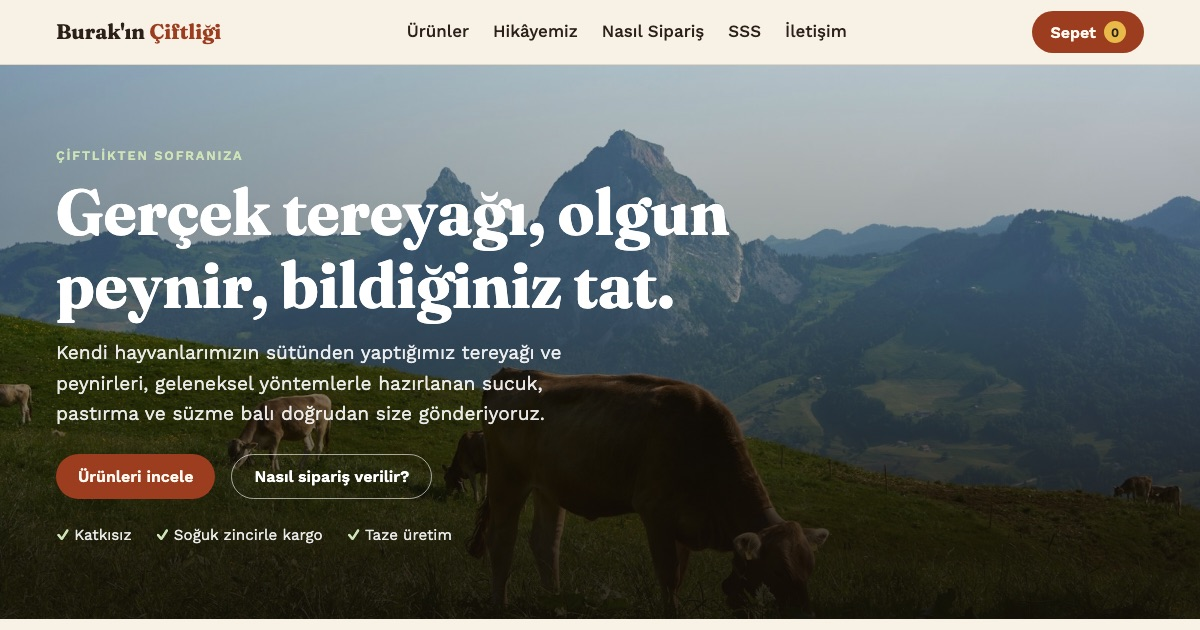
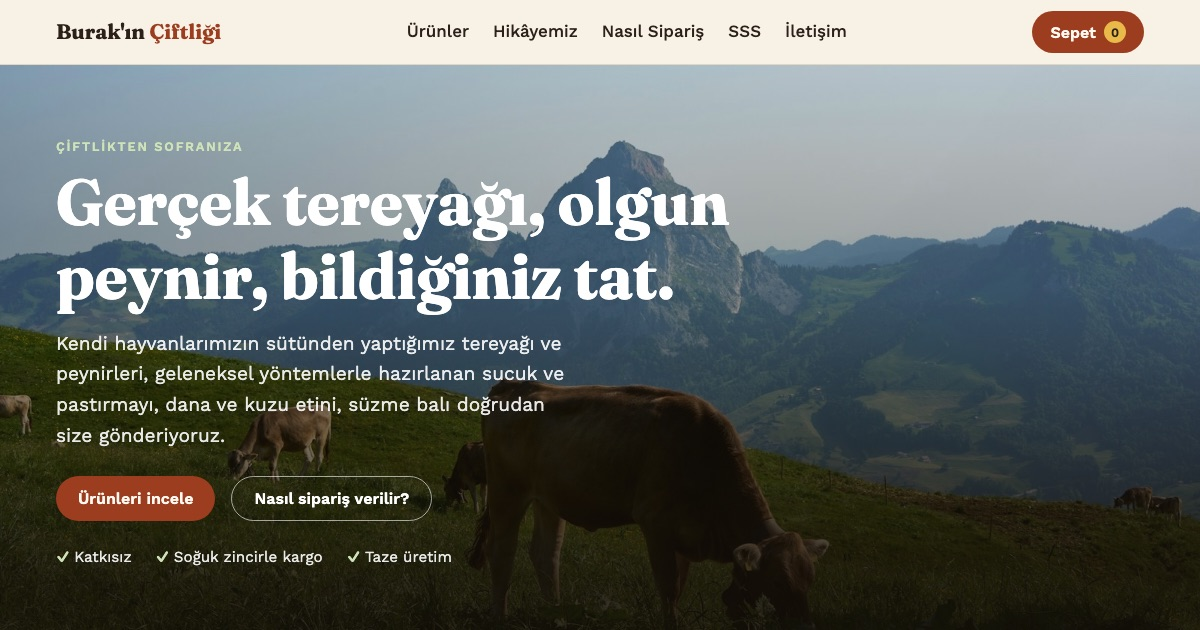
Et kategorisi, bölge teslimat notları ve yeni ürün fotoğrafları

diff --git a/index.html b/index.html
@@ -9,7 +9,7 @@
 <meta property="og:type" content="website">
 <meta property="og:site_name" content="Burak'ın Çiftliği">
 <meta property="og:title" content="Burak'ın Çiftliği">
-<meta property="og:description" content="Köy tereyağı, peynir çeşitleri, sucuk, pastırma ve bal. Çiftlikten sofranıza.">
+<meta property="og:description" content="Köy tereyağı, peynir çeşitleri, sucuk, pastırma, dana ve kuzu eti, bal. Çiftlikten sofranıza.">
 <meta property="og:url" content="https://4r4s-h.github.io/burakin-ciftligi/">
 <meta property="og:image" content="https://4r4s-h.github.io/burakin-ciftligi/img/onizleme.jpg">
 <meta property="og:image:width" content="1200">
@@ -115,9 +115,11 @@ header{position:sticky; top:0; z-index:20; background:color-mix(in srgb, var(--b
 .hero-farm .badges span::before{color:#cfe3b8}
 .btn.ghost.light{color:#fff; border-color:rgba(255,255,255,.6)}
 .cats{padding:var(--s5) 0 0}
-.cat-grid{display:grid; grid-template-columns:repeat(4, 1fr); gap:var(--s3)}
+.cat-grid{display:grid; grid-template-columns:repeat(5, 1fr); gap:var(--s3)}
 .cat-grid .tile{min-height:200px}
-@media (max-width:860px){.cat-grid{grid-template-columns:1fr 1fr} .cat-grid .tile{min-height:150px}}
+@media (max-width:860px){.cat-grid{grid-template-columns:1fr 1fr} .cat-grid .tile{min-height:150px} .cat-grid .tile:last-child{grid-column:span 2}}
+.ship-warn{margin:0; font-size:.9rem; background:var(--bg); border:1px solid var(--leaf); color:var(--ink); border-radius:10px; padding:var(--s2) var(--s3)}
+.ship{align-self:flex-start; font-size:.8rem; font-weight:600; color:var(--leaf); border:1px solid currentColor; border-radius:999px; padding:2px 10px}
 
 /* Then & now */
 .then-now{display:grid; grid-template-columns:1fr 1fr; gap:var(--s3); align-items:start}
@@ -130,7 +132,8 @@ header{position:sticky; top:0; z-index:20; background:color-mix(in srgb, var(--b
 .card .body{padding:var(--s3) var(--s3) var(--s4); display:flex; flex-direction:column; gap:var(--s2); flex:1}
 .card h3{margin:0}
 .card p{color:var(--muted); font-size:.95rem; margin:0; flex:1}
-.card .row{display:flex; justify-content:space-between; align-items:center; gap:var(--s2); margin-top:var(--s2)}
+.card .row{display:flex; flex-wrap:wrap; justify-content:space-between; align-items:center; gap:var(--s2); margin-top:var(--s2)}
+.price small, .card .btn{white-space:nowrap}
 .price{font-family:var(--f-display); font-weight:700; font-size:1.3rem}
 .price small{font-family:var(--f-body); font-weight:400; font-size:.85rem; color:var(--muted)}
 .card .btn{padding:9px 16px; font-size:.92rem}
@@ -203,7 +206,7 @@ footer{padding:var(--s5) 0; color:var(--muted); font-size:.9rem; text-align:cent
     <div class="wrap">
       <div class="eyebrow">Çiftlikten sofranıza</div>
       <h1 id="hero-h">Gerçek tereyağı, olgun peynir, bildiğiniz tat.</h1>
-      <p class="lead">Kendi hayvanlarımızın sütünden yaptığımız tereyağı ve peynirleri, geleneksel yöntemlerle hazırlanan sucuk, pastırma ve süzme balı doğrudan size gönderiyoruz.</p>
+      <p class="lead">Kendi hayvanlarımızın sütünden yaptığımız tereyağı ve peynirleri, geleneksel yöntemlerle hazırlanan sucuk ve pastırmayı, dana ve kuzu etini, süzme balı doğrudan size gönderiyoruz.</p>
       <div class="hero-actions">
         <a class="btn" href="#urunler">Ürünleri incele</a>
         <a class="btn ghost light" href="#siparis">Nasıl sipariş verilir?</a>
@@ -217,6 +220,7 @@ footer{padding:var(--s5) 0; color:var(--muted); font-size:.9rem; text-align:cent
       <a class="tile" href="#urunler" data-go="tereyagi"><img src="img/tereyagi.jpg" alt="Tabakta taze tereyağı ve köy ekmeği"><span>Tereyağı<small>Yayıkta çalkalanmış</small></span></a>
       <a class="tile" href="#urunler" data-go="peynir"><img src="img/kahvalti.jpg" alt="Beyaz peynir, kaşar, zeytin ve domatesle kahvaltı tabağı"><span>Peynir<small>Olgunlaştırılmış</small></span></a>
       <a class="tile" href="#urunler" data-go="sarkuteri"><img src="img/sarkuteri.jpg" alt="Kurumaya asılmış sucuk ve et ürünleri"><span>Şarküteri<small>Sucuk ve pastırma</small></span></a>
+      <a class="tile" href="#urunler" data-go="et"><img src="img/antrikot.jpg" alt="Ahşap tahtada çiğ dana antrikot"><span>Et<small>Dana ve kuzu</small></span></a>
       <a class="tile" href="#urunler" data-go="bal"><img src="img/bal.jpg" alt="Çiçekler arasında bir kavanoz bal"><span>Bal<small>Süzme ve petek</small></span></a>
     </div>
   </section>
@@ -233,11 +237,12 @@ footer{padding:var(--s5) 0; color:var(--muted); font-size:.9rem; text-align:cent
           <button type="button" data-cat="tereyagi" aria-pressed="false">Tereyağı</button>
           <button type="button" data-cat="peynir" aria-pressed="false">Peynir</button>
           <button type="button" data-cat="sarkuteri" aria-pressed="false">Şarküteri</button>
+          <button type="button" data-cat="et" aria-pressed="false">Et</button>
           <button type="button" data-cat="bal" aria-pressed="false">Bal</button>
         </div>
       </div>
       <div class="grid" id="product-grid"></div>
-      <p class="note">Fiyatlara KDV dahildir. Stok durumu mevsime göre değişebilir; siparişinizi onaylarken size bilgi veririz.</p>
+      <p class="note">Et ürünleri kilogramla satılır; sepette her adet 1 kg'dır. Taze et soğuk zincir gerektirdiği için yalnızca Erzurum içine teslim edilir. Fiyatlara KDV dahildir. Stok durumu mevsime göre değişebilir; siparişinizi onaylarken size bilgi veririz.</p>
     </div>
   </section>
 
@@ -281,6 +286,7 @@ footer{padding:var(--s5) 0; color:var(--muted); font-size:.9rem; text-align:cent
       <div>
         <details><summary>Kargo ne kadar sürer?</summary><p>Siparişler genellikle 1–2 iş günü içinde kargoya verilir ve çoğu ile 1–3 iş gününde ulaşır.</p></details>
         <details><summary>Ürünler bozulmadan gelir mi?</summary><p>Tereyağı, peynir ve şarküteri ürünlerini buz aküleriyle, yalıtımlı kutularda gönderiyoruz.</p></details>
+        <details><summary>Et ürünlerini her yere gönderiyor musunuz?</summary><p>Hayır. Taze et soğuk zincir gerektirdiği için dana ve kuzu etini yalnızca Erzurum içine, kendi soğutmalı aracımızla teslim ediyoruz. Tereyağı, peynir, şarküteri ve bal ürünlerini Türkiye'nin her yerine kargoluyoruz.</p></details>
         <details><summary>Ödemeyi nasıl yapıyorum?</summary><p>Siparişinizi onayladıktan sonra havale/EFT ile ödeme yapabilirsiniz. Diğer seçenekleri WhatsApp'tan sorabilirsiniz.</p></details>
         <details><summary>Ücretsiz kargo var mı?</summary><p>Belirli bir tutarın üzerindeki siparişlerde kargo ücretsizdir. Güncel limiti sipariş sırasında iletiyoruz.</p></details>
       </div>
@@ -305,7 +311,7 @@ footer{padding:var(--s5) 0; color:var(--muted); font-size:.9rem; text-align:cent
 
 <footer>
   <div class="wrap">© <span id="year"></span> Burak'ın Çiftliği. Tüm hakları saklıdır.
-    <p class="credits">Fotoğraflar: Marine Le Gac, Victoria Morgan, Lee Vue, Edi Libedinsky, Anita Austvika, Cristina Marin, Wolfgang Hasselmann, Konrad Nowacki, Katrin Leinfellner / <a href="https://unsplash.com">Unsplash</a>; Tugay Aydın / <a href="https://www.pexels.com">Pexels</a></p>
+    <p class="credits">Fotoğraflar: Marine Le Gac, Victoria Morgan, Lee Vue, Edi Libedinsky, Anita Austvika, Cristina Marin, Wolfgang Hasselmann, Konrad Nowacki, Katrin Leinfellner, Cindie Hansen ve diğer fotoğrafçılar / <a href="https://unsplash.com">Unsplash</a>; Tugay Aydın ve diğer fotoğrafçılar / <a href="https://www.pexels.com">Pexels</a></p>
   </div>
 </footer>
 
@@ -318,6 +324,7 @@ footer{padding:var(--s5) 0; color:var(--muted); font-size:.9rem; text-align:cent
     </div>
     <div class="drawer-items" id="cart-items"></div>
     <div class="drawer-foot">
+      <p class="ship-warn" id="ship-warn" hidden>Sepetinizde taze et var: et ürünleri yalnızca <strong>Erzurum içine</strong> teslim edilir.</p>
       <div class="total"><span>Toplam</span><span id="cart-total">0 ₺</span></div>
       <label for="cart-note">Not (isteğe bağlı)
         <textarea id="cart-note" placeholder="Örn. teslimat günü tercihi"></textarea>
@@ -340,15 +347,20 @@ footer{padding:var(--s5) 0; color:var(--muted); font-size:.9rem; text-align:cent
     {id:'peynir-beyaz',  cat:'peynir',    name:'Tam Yağlı Beyaz Peynir',unit:'1 kg', price:520, desc:'Salamurada en az altı ay dinlendirilmiş.', img:'kahvalti.jpg', alt:'Kahvaltı tabağında beyaz peynir'},
     {id:'peynir-kasar',  cat:'peynir',    name:'Eski Kaşar',          unit:'500 g', price:390, desc:'Bir yıl olgunlaşmış, keskin ve aromatik.', img:'peynir.jpg', alt:'Ahşap tahtada kaşar ve peynir dilimleri'},
     {id:'peynir-tulum',  cat:'peynir',    name:'Tulum Peyniri',       unit:'500 g', price:360, desc:'Ufalanan dokusu ve yoğun tadıyla kahvaltıların yıldızı.', img:'kahvalti.jpg', alt:'Kahvaltı tabağında peynir çeşitleri'},
-    {id:'peynir-orgu',   cat:'peynir',    name:'Örgü Peyniri',        unit:'500 g', price:280, desc:'El ile örülmüş, çörekotlu.', img:'peynir.jpg', alt:'Ahşap tahtada peynir çeşitleri'},
+    {id:'peynir-orgu',   cat:'peynir',    name:'Örgü Peyniri',        unit:'500 g', price:280, desc:'El ile örülmüş, çörekotlu.', img:'orgu.jpg', alt:'Ahşap tahtada beyaz örgü peyniri'},
     {id:'sucuk-kasap',   cat:'sarkuteri', name:'Kasap Sucuk',         unit:'500 g', price:450, desc:'Dana etinden, bol baharatlı, doğal bağırsakta kurutulmuş.', img:'sucuk.jpg', alt:'Ahşap tahtada at nalı sucuk ve sucuk dilimleri'},
     {id:'pastirma',      cat:'sarkuteri', name:'Pastırma',            unit:'250 g', price:520, desc:'Çemeni bol, ince dilimlenmiş dana pastırma.', img:'sarkuteri.jpg', alt:'Kurumaya asılmış et ürünleri'},
     {id:'kavurma',       cat:'sarkuteri', name:'Kavurma',             unit:'500 g', price:600, desc:'Kendi yağında pişirilmiş, vakumlu paketlenmiş.', img:'sarkuteri.jpg', alt:'Şarküteri ürünleri'},
+    {id:'dana-antrikot', cat:'et',        name:'Dana Antrikot',       unit:'1 kg',  price:1100, desc:'Mermer desenli, dinlendirilmiş; ızgara ve tava için.', img:'antrikot.jpg', alt:'Ahşap tahtada çiğ dana antrikot', note:'Yalnızca Erzurum içi teslimat'},
+    {id:'dana-bonfile',  cat:'et',        name:'Dana Bonfile',        unit:'1 kg',  price:1350, desc:'En yumuşak parça; madalyon ya da bütün olarak.', img:'bonfile.jpg', alt:'Tahtada kalın dilim çiğ dana eti', note:'Yalnızca Erzurum içi teslimat'},
+    {id:'dana-kaburga',  cat:'et',        name:'Dana Kaburga',        unit:'1 kg',  price:750, desc:'Kemikli; fırın ve uzun pişirme yemekleri için.', img:'kaburga.jpg', alt:'Tepside kemikli çiğ dana kaburga', note:'Yalnızca Erzurum içi teslimat'},
+    {id:'kuzu-pirzola',  cat:'et',        name:'Kuzu Pirzola',        unit:'1 kg',  price:1200, desc:'Kuzu kafesinden, porsiyonluk kesilmiş.', img:'kuzu.jpg', alt:'Biberiyeli çiğ kuzu pirzola', note:'Yalnızca Erzurum içi teslimat'},
+    {id:'kuzu-kusbasi',  cat:'et',        name:'Kuzu Kuşbaşı',        unit:'1 kg',  price:950, desc:'Kuzu butundan, sinirleri ayıklanmış.', img:'kusbasi.jpg', alt:'Tahtada kuşbaşı doğranmış çiğ et', note:'Yalnızca Erzurum içi teslimat'},
     {id:'bal-cicek',     cat:'bal',       name:'Süzme Çiçek Balı',    unit:'850 g', price:550, desc:'Yayla çiçeklerinden, ısıl işlem görmemiş.', img:'bal.jpg', alt:'Çiçekler arasında süzme bal kavanozu'},
     {id:'bal-kestane',   cat:'bal',       name:'Kestane Balı',        unit:'850 g', price:750, desc:'Koyu renkli, hafif acımsı ve mineral açısından zengin.', img:'bal.jpg', alt:'Kavanozda koyu renkli bal'},
     {id:'bal-petek',     cat:'bal',       name:'Petek Bal',           unit:'1 kg',  price:900, desc:'Çerçeveden kesilmiş, doğal haliyle.', img:'petek.jpg', alt:'Yakın çekim petek bal'}
   ];
-  var CAT_LABEL = {tereyagi:'Tereyağı', peynir:'Peynir', sarkuteri:'Şarküteri', bal:'Bal'};
+  var CAT_LABEL = {tereyagi:'Tereyağı', peynir:'Peynir', sarkuteri:'Şarküteri', et:'Et', bal:'Bal'};
 
   var $ = function(id){ return document.getElementById(id); };
   var fmt = new Intl.NumberFormat('tr-TR');
@@ -366,7 +378,7 @@ footer{padding:var(--s5) 0; color:var(--muted); font-size:.9rem; text-align:cent
   grid.innerHTML = PRODUCTS.map(function(p){
     return '<article class="card" data-cat="'+p.cat+'">' +
       '<div class="photo"><img src="img/'+p.img+'" alt="'+p.alt+'" loading="lazy" width="1000" height="666"><span class="tag">'+CAT_LABEL[p.cat]+'</span></div>' +
-      '<div class="body"><h3>'+p.name+'</h3><p>'+p.desc+'</p>' +
+      '<div class="body"><h3>'+p.name+'</h3><p>'+p.desc+'</p>' + (p.note ? '<span class="ship">'+p.note+'</span>' : '') +
       '<div class="row"><span class="price">'+money(p.price)+' <small>/ '+p.unit+'</small></span>' +
       '<button class="btn" type="button" data-add="'+p.id+'" aria-label="'+p.name+' sepete ekle">Sepete ekle</button></div></div></article>';
   }).join('');
@@ -398,6 +410,7 @@ footer{padding:var(--s5) 0; color:var(--muted); font-size:.9rem; text-align:cent
     $('cart-count').textContent = count;
     $('cart-total').textContent = money(total);
     $('send-order').disabled = count === 0;
+    $('ship-warn').hidden = !ids.some(function(id){ return byId[id].cat === 'et'; });
     $('cart-items').innerHTML = ids.length ? ids.map(function(id){
       var p = byId[id], q = cart[id];
       return '<div class="line"><div><strong>'+p.name+'</strong><div class="meta">'+p.unit+' · '+money(p.price)+'</div></div>' +
@@ -430,6 +443,7 @@ footer{padding:var(--s5) 0; color:var(--muted); font-size:.9rem; text-align:cent
       lines.push('• ' + q + ' × ' + p.name + ' (' + p.unit + ') = ' + money(q * p.price));
     });
     lines.push('', 'Toplam: ' + money(total));
+    if(Object.keys(cart).some(function(id){ return byId[id].cat === 'et'; })) lines.push('(Siparişte taze et var; teslimat adresim Erzurum içinde.)');
     var note = $('cart-note').value.trim(); if(note) lines.push('Not: ' + note);
     window.open('https://wa.me/' + WHATSAPP + '?text=' + encodeURIComponent(lines.join('\n')), '_blank', 'noopener');
   });
